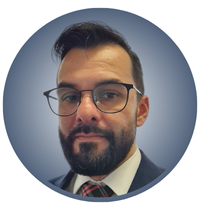
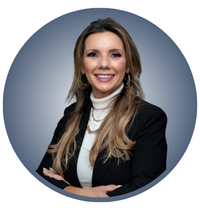
Adicionando a 3ª linha de palestrantes

diff --git a/index.html b/index.html
@@ -158,42 +158,50 @@
 
                 </div>
 
-                <!--
                 <div class="linha3">
                     <div class="palestrante">
-                        <img src="Foto7.png">
-                        <img src="Foto8.png">
-                        <img src="Foto9.png">
-                    </div>
-                    <div class="texto-palestrante">
-                        <div class="texto"> 
+                        <div class="p-imagem">
+                            <img src="Foto7.png">
+                        </div>
+                        <div class="p-texto">
                             <div class="nome">
-                                <b><p>Dr. Felipe Branco de Almeida</p></b>
+                                <b><p>Kelly Ramos</p></b>
                             </div>
                             <div class="cargo">
-                                <p>Advogado e Consultor Jurídico em Direito do Trabalho</p>
+                                <p>Executiva de Pessoas e Cultura</p>
                             </div>
+                        </div>
+                    </div> 
 
+                    <div class="palestrante">
+                        <div class="p-imagem">
+                            <img src="Foto8.png">
                         </div>
-                        <div class="texto">
+                        <div class="p-texto">
                             <div class="nome">
-                                <b><p>Leandro Soares</p></b>
+                                <b><p>Natália Franco</p></b>
                             </div>
                             <div class="cargo">
-                                <p>Presidente do Sindicato dos Metalúrgicos de Sorocaba e Região</p>
+                                <p>Gerente de Recursos Humanos na Loggi</p>
                             </div>
                         </div>
-                        <div class="texto">
+                    </div> 
+                    
+                    <div class="palestrante">
+                        <div class="p-imagem">
+                            <img src="Foto8.png">
+                        </div>
+                        <div class="p-texto">
                             <div class="nome">
-                                <b><p>Dr. Carlos Eduardo Leite Santos</p></b>
+                                <b><p>Natália Franco</p></b>
                             </div>
                             <div class="cargo">
-                                <p>Advogado - Sócio na Leite & Santos Sociedade de Advogados e Coordenador Jurídico e</p>
+                                <p>Gerente de Recursos Humanos na Loggi</p>
                             </div>
                         </div>
-                    </div>
-                </div>
+                    </div> 
 
+                <!--
                 <div class="linha4">
                     <div class="palestrante">
                         <img src="Foto10.png">

diff --git a/css.css b/css.css
@@ -9,7 +9,7 @@ html {
 
 body {
     width: 700px;
-    height: 3220px;
+    height: 3420px;
     display: flex;
     flex-direction: column;
     align-items: center;
@@ -154,15 +154,15 @@ section {
 
 
 .palestrantes {
-    height: 600px;
+    height: 800px;
     display: flex;
     flex-direction: column;
     margin-bottom: 50px;
 }
 
-.linha1, .linha2 {
+.linha1, .linha2, .linha3 {
     width: 100%;
-    height: 50%;
+    height: 33,3%;
     display: flex;
     flex-direction: row;
 
@@ -408,13 +408,14 @@ section {
 
     body {
         width: 100%;
+        height: 90%;
     }
 
     .palestrantes {
-        height: 100%;
+        height: 60%;
     }
 
-    .palestrante, .linha1, .linha2 {
+    .palestrante, .linha1, .linha2, .linha3 {
         flex-direction: column;
         align-items: center;
     }
@@ -454,5 +455,9 @@ section {
 
     .tel1 p, .tel2 p {
         font-size: 12px;
+    }
+
+    .patrocinadores {
+        margin-top: 10px;
     }
 }
